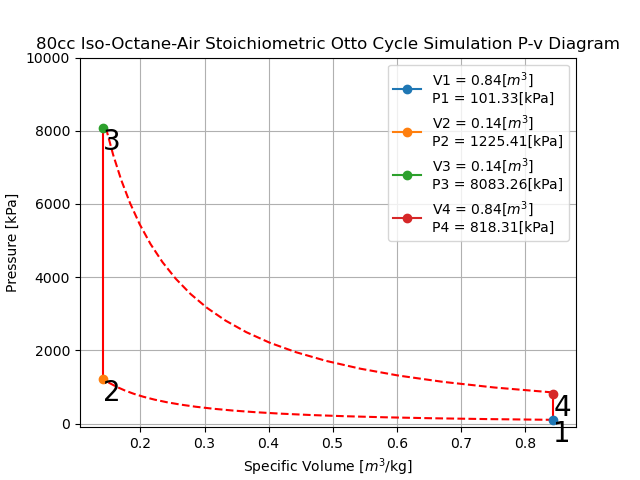
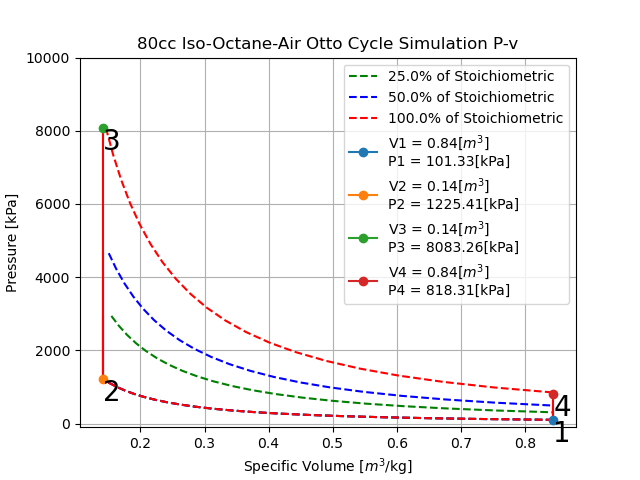
CREATED FUCNTIONS FOR STUFF :))

diff --git a/isooctane_analysis.py b/isooctane_analysis.py
@@ -37,24 +37,35 @@ n_O2 = 0.21*n
     #moles of oxygen present in air
 n_iso = n_O2/12.5
     #moles of iso-octane required for stoichiometric combustion
-kg_iso = n_iso*mw_iso/1000
+excess = 0.3
+    #excess value for iso_octane
+
+    
+def kilograms_iso(excess_percent):
     #kg of iso-octane reuired for stoichiometric combustion
+    moles_iso = n_iso
+    molecular_weight_iso = mw_iso
+    kg = moles_iso*molecular_weight_iso*excess_percent/1000
+    return kg
+    
 # %%
 ###################
 #      INTAKE     #
 ###################
 
-cv_air_1 = air.cv(T=t1, p=p1)
+def intake(t1, p1):
+    cv_air = air.cv(T=t1, p=p1)
     #volume specific heat at temperature t1
-cp_air_1 = air.cp(T=t1, p=p1)
+    cp_air = air.cp(T=t1, p=p1)
     #volume specific heat at temperature t1
-gamma_air_1 = cp_air_1/cv_air_1
+    gamma = cp_air/cv_air
     #finding gamma. Basicaly the same as assumed value
-
-s_air_1 = air.s(T=t1, p=p1)
+    s_air = air.s(T=t1, p=p1)
     #air entropy at state point 1
-h_air_1 = air.h(T=t1, p=p1)
+    h_air = air.h(T=t1, p=p1)
     #air enthlpy at state point 1
+    return cv_air, cp_air, gamma, s_air, h_air
+
 #%%
 ###################
 #   COMPRESSION   #
@@ -62,68 +73,75 @@ h_air_1 = air.h(T=t1, p=p1)
 
 gamma_avg = 1.3912
 
-p2 = p1 * r ** gamma_avg
-    #Finding stage 2 pressure through pressure ratio
-t2 = t1 * r**(gamma_avg-1)
-    #Finding stage 2 temp through adiabatic compression
+def compression(t1, p1):
+    p2 = p1 * r ** gamma_avg
+        #Finding stage 2 pressure through pressure ratio
+    t2 = t1 * r**(gamma_avg-1)
+        #Finding stage 2 temp through adiabatic compression
+    cv_air_2 = air.cv(T=t2, p=p2)
+        #volume specific heat at temperature t2
+    cp_air_2 = air.cp(T=t2, p=p2)
+        #volume specific heat at temperature t1
+    gamma_air_2 = cp_air_2/cv_air_2
+        #finding gamma. Basicaly the same as assumed value
 
-cv_air_2 = air.cv(T=t2, p=p2)
-    #volume specific heat at temperature t2
-cp_air_2 = air.cp(T=t2, p=p2)
-    #volume specific heat at temperature t1
-gamma_air_2 = cp_air_2/cv_air_2
-    #finding gamma. Basicaly the same as assumed value
+    s_air_2 = air.s(T=t2, p=p2)
+        #air entropy at state point 2
+    h_air_2 = air.h(T=t2, p=p2)
+        #H2 enthalpy at state point 2
+    
+    return cv_air_2, cp_air_2, gamma_air_2, s_air_2, h_air_2, p2, t2
+        #specific work required for compression
 
-s_air_2 = air.s(T=t2, p=p2)
-    #air entropy at state point 2
-h_air_2 = air.h(T=t2, p=p2)
-    #H2 enthalpy at state point 2
-
-wc = h_air_2 - h_air_1
-    #specific work required for compression
-
+#wc = h_air_2 - h_air_1
 #%%
 ###################
 #   COMBUSTION    #
 ###################
-cv_air_avg = 0.8735
-fuel_air = kg_iso / kg_air
-t3 = t2 + Q*kg_iso/(kg_air*cv_air_avg)
-p3 = p2*(t3/t2)
 
-cv_air_3 = air.cv(T=t3, p=p3)
-cp_air_3 = air.cp(T=t3, p=p3)
-h_air_3 = air.h(T=t3, p=p3)
-s_air_3 = air.s(T=t3, p=p3)
+def combustion(t2, p2, kg_iso, kg_air, Q):
+    cv_air_avg = 0.8735
+    t3 = t2 + Q*kg_iso/(kg_air*cv_air_avg)
+    p3 = p2*(t3/t2)
 
-gamma_air_3 = cp_air_3/cv_air_3
+    cv_air_3 = air.cv(T=t3, p=p3)
+    cp_air_3 = air.cp(T=t3, p=p3)
+    h_air_3 = air.h(T=t3, p=p3)
+    s_air_3 = air.s(T=t3, p=p3)
+
+    gamma_air_3 = cp_air_3/cv_air_3
+    return cv_air_3, cp_air_3, gamma_air_3, s_air_3, h_air_3, p3, t3
 #%%
 ###################
 #     EXHAUST     #
 ###################
+def exhaust(t3, p3, gamma_air_3):
+    p4 = p3*r**(-gamma_air_3)
+    t4 = t3*r**(1-gamma_air_3)
 
-p4 = p3*r**(-gamma_air_3)
-t4 = t3*r**(1-gamma_air_3)
-
-cv_air_4 = air.cv(T=t4, p=p4)
-cp_air_4 = air.cp(T=t4, p=p4)
-h_air_4 = air.h(T=t4, p=p4)
-s_air_4 = air.s(T=t4, p=p4)
-
-cv_avg = (cv_air_1+cv_air_2+cv_air_3+cv_air_4)/4
-gamma_air_4 = cp_air_4/cv_air_4
+    cv_air_4 = air.cv(T=t4, p=p4)
+    cp_air_4 = air.cp(T=t4, p=p4)
+    h_air_4 = air.h(T=t4, p=p4)
+    s_air_4 = air.s(T=t4, p=p4)
+    
+    gamma_air_4 = cp_air_4/cv_air_4
+    return cv_air_4, cp_air_4, gamma_air_4, s_air_4, h_air_4, p4, t4
 
 # %%
-W = cv_avg*( (t3-t2)-(t4-t1) )
 
-P_spec = W*rpm/60
-P = P_spec*(kg_air)
-print(f'kW = {P}')
+def power(t1, t2, t3, t4, cv_air_1, cv_air_2, cv_air_3, cv_air_4):
+    cv_avg = (cv_air_1+cv_air_2+cv_air_3+cv_air_4)/4
+    W = cv_avg*( (t3-t2)-(t4-t1) )
+
+    P_spec = W*rpm/60
+    P = P_spec*(kg_air)
+    print(f'kW = {P}')
+    return P
 #%%
 ###################
 #     VOLUME      #
 ###################
-
+'''
 l = 20
 t_12 = np.linspace(t1, t2, l)
 t_23 = np.linspace(t2, t3, l)
@@ -176,30 +194,76 @@ plt.legend()
 
 plt.xlabel('Volume [cc]')
 plt.ylabel('Pressure [kPa]')
-plt.title(f'80cc Iso-Octane-Air Stoichiometric Otto Cycle Simulation P-V Diagram')
-plt.savefig(f'Iso-octane_graphs/P-V_total.png')
+plt.title(f'80cc Iso-Octane-Air {np.round((excess-1)*100)}% excess Otto Cycle Simulation P-V')
+plt.savefig(f'Iso-octane_graphs/P-V_total_{np.round((excess-1)*100)}%_excess.png')
+'''
 # %%
 
 ###################
 #   SPECIFIC VOL  #
 ###################
 
-v12_sp = (v12_air)
-v23_sp = (v23_air)
-v34_sp = (v34_air)
-v41_sp = (v41_air)
+def SV(excess,t1, p1, points):
+    kg_iso = kilograms_iso(excess)
+    cv_air_1, cp_air_1, gamma_1, s_air_1, h_air_1 = intake(t1, p1)
+    cv_air_2, cp_air_2, gamma_2, s_air_2, h_air_2, p2, t2 = compression(t1, p1)
+    cv_air_3, cp_air_3, gamma_3, s_air_3, h_air_3, p3, t3 = combustion(t2, p2, kg_iso, kg_air, Q)
+    cv_air_4, cp_air_4, gamma_4, s_air_4, h_air_4, p4, t4 = exhaust(t3, p3, gamma_3)
+    P = power(t1, t2, t3, t4, cv_air_1, cv_air_2, cv_air_3, cv_air_4)
+    
+    l = points
+    
+    t_12 = np.linspace(t1, t2, l)
+    t_23 = np.linspace(t2, t3, l)
+    t_34 = np.linspace(t3, t4, l)
+    t_14 = np.linspace(t1, t4, l)
+    
+    v12_air = air.v(T=t_12, s=s_air_1)
+    v23_air = air.v(T=t2,   s=s_air_2)
+    v34_air = air.v(T=t_34, s=s_air_4)
+    v41_air = air.v(T=t4,   s=s_air_4)
+    
+    v12_sp = (v12_air)
+    v23_sp = (v23_air)
+    v34_sp = (v34_air)
+    v41_sp = (v41_air)
 
-v1_sp = (v1_air)
-v2_sp = (v2_air)
-v3_sp = (v3_air)
-v4_sp = (v4_air)
+    v1_air = air.v(T=t1, s=s_air_1)
+    v2_air = air.v(T=t2, s=s_air_2)
+    v3_air = air.v(T=t3, s=s_air_3)
+    v4_air = air.v(T=t4, s=s_air_4)
+
+    v1_sp = (v1_air)
+    v2_sp = (v2_air)
+    v3_sp = (v3_air)
+    v4_sp = (v4_air)
+    
+    p12 = air.p(T=t_12, s=s_air_1)/1000
+    p23 = air.p(T=t_23, v=v23_air)/1000
+    p34 = air.p(T=t_34, s=s_air_3)/1000
+    p41 = air.p(T=t_14, v=v41_air)/1000
+    
+    return v12_sp, v23_sp, v34_sp, v41_sp, v1_sp, v2_sp, v3_sp, v4_sp, \
+        p1, p2, p3, p4, p12, p23, p34, p41, t1, t2, t3, t4, t_12, t_23, t_34, t_14
+
+excesses = np.array([0.25, 0.5, 1])
 
 fig2 = plt.figure()
+c = 0
+for e in excesses:
+    if c == 0:
+        color = 'g'
+    elif c==1:
+        color = 'b'
+    else:
+        color = 'r'
+    v12_sp, v23_sp, v34_sp, v41_sp, v1_sp, v2_sp, v3_sp, v4_sp, p1, p2, p3, p4, p12, p23, p34, p41, t1, t2, t3, t4, t_12, t_23, t_34, t_14 = SV(e, t1, p1, 20)
+    plt.plot(v12_sp, p12,f'{color}--',linewidth=1.5, label=f'{e*100}% of Stoichiometric')
+    plt.plot([v23_sp,v23_sp],[p2/1000,p3/1000],f'{color}',linewidth=1.5)
+    plt.plot(v34_sp, p34,f'{color}--',linewidth=1.5)
+    plt.plot([v41_sp[0],v41_sp[0]],[p4[0]/1000,p1/1000],f'{color}',linewidth=1.5)
+    c+=1
 
-plt.plot(v12_sp, p12,'r--',linewidth=1.5)
-plt.plot([v23_sp,v23_sp],[p2/1000,p3/1000],'r',linewidth=1.5)
-plt.plot(v34_sp, p34,'r--',linewidth=1.5)
-plt.plot([v41_sp[0],v41_sp[0]],[p4[0]/1000,p1/1000],'r',linewidth=1.5)
 
 plt.annotate('1',xy=(v1_sp,p1/1000),horizontalalignment='left', verticalalignment='top', fontsize=20)         
 plt.annotate('2',xy=(v2_sp,p2/1000),horizontalalignment='left', verticalalignment='top', fontsize=20)         
@@ -216,7 +280,7 @@ plt.legend()
 
 plt.xlabel(r'Specific Volume [$m^3$/kg]')
 plt.ylabel('Pressure [kPa]')
-plt.title(f'80cc Iso-Octane-Air Stoichiometric Otto Cycle Simulation P-v Diagram')
+plt.title(f'80cc Iso-Octane-Air Otto Cycle Simulation P-v')
 plt.ylim(-100,10000)
 plt.savefig(f'Iso-octane_graphs/P-V_specific.png')
 # %%
@@ -256,14 +320,14 @@ plt.annotate('4',xy=(t4,p4/1000),horizontalalignment='left', verticalalignment='
 
 plt.xlabel('Temperature [K]')
 plt.ylabel('Pressure [kPa]')
-plt.title(f'80cc Iso-Octane-Air Stoichiometric Otto Cycle Simulation P-T Diagram')
+plt.title(f'80cc Iso-Octane-Air {np.round((excess-1)*100)}% excess Otto Cycle Simulation P-T')
 
 plt.grid()
 plt.legend()
 plt.xlim(0,5000)
 plt.ylim(0,10000)
 
-plt.savefig(f'Iso-octane_graphs/P-T.png')
+plt.savefig(f'Iso-octane_graphs/P-T_{np.round((excess-1)*100)}%_excess.png')
 # %%
 ###################
 #     ENTROPY     #
@@ -303,13 +367,13 @@ plt.annotate('4',xy=(s_air_4, t4),horizontalalignment='left', verticalalignment=
 
 plt.ylabel('Temperature [K]')
 plt.xlabel('Specific Entropy [kJ/K kg]')
-plt.title(f'80cc Iso-Octane-Air Stoichiometric Otto Cycle Simulation P-T Diagram')
+plt.title(f'80cc Iso-Octane-Air {np.round((excess-1)*100)}% excess Otto Cycle Simulation P-T')
 plt.grid()
 plt.legend()
 
 plt.ylim(0,5000)
 
-plt.savefig(f'Iso-octane_graphs/T-S.png')
+plt.savefig(f'Iso-octane_graphs/T-S_{np.round((excess-1)*100)}%_excess.png')
 # %%
 ###################
 #     RUNTIME     #
@@ -329,11 +393,11 @@ runtime = (m_tot_iso/m_dot_iso)/60
 plt.plot(duty_cycle, runtime)
 plt.xlabel('Duty Cycle')
 plt.ylabel('Runtime [min]')
-plt.title(f'Runtime, Stoichiometric Iso-Octane Air')
+plt.title(f'Runtime, {np.round((excess-1)*100)}% excess Iso-Octane Air')
 plt.grid()
 plt.ylim(10,200)
 plt.xlim(0.1,1)
-plt.savefig(f'Iso-octane_graphs/runtime_duty_cycle.png')
+plt.savefig(f'Iso-octane_graphs/runtime_duty_cycle_{np.round((excess-1)*100)}%_excess.png')
 # %%
 fig6 = plt.figure
 avg_rpm = np.linspace(1000,6000,100)
@@ -345,9 +409,9 @@ runtime = (m_tot_iso/m_dot_iso_a)/60
 plt.plot(avg_rpm, runtime)
 plt.xlabel('Average RPM')
 plt.ylabel('Runtime [min]')
-plt.title(f'Runtime, Stoichiometric Iso-Octane Air at Given RPM')
+plt.title(f'Runtime, {np.round((excess-1)*100)}% excess Iso-Octane Air at Given RPM')
 plt.grid()
 plt.ylim(10,200)
 plt.xlim(1000,6000)
-plt.savefig(f'Iso-octane_graphs/runtime_rpm.png')
+plt.savefig(f'Iso-octane_graphs/runtime_rpm_{np.round((excess-1)*100)}%_excess.png')
 # %%

diff --git a/hydrogen_air.py b/hydrogen_air.py
@@ -33,7 +33,7 @@ rho_air = H2.d(T=t1, p=p1)
 # %%
 
 #quick calculation to get molar fractions
-excess = 1.
+excess = 0.3
     #percent excess
 air_part = 1
 hydrogen = 0.21*2 * excess
@@ -143,7 +143,7 @@ gamma_avg_12 = (gamma_1 + gamma_2)/2
 cv_air_avg = 0.8735
 cv_H2_avg = 11.5
 #fuel_air = kg_H2 / kg_air
-t3 = t2 + Q*(kg_H2/excess)/(kg_air*cv_air_avg + (kg_H2*excess-kg_H2)*cv_H2_avg)
+t3 = t2 + Q*(kg_H2)/(kg_air*cv_air_avg)
 p3 = p2*(t3/t2)
 
 cv_air_3 = air.cv(T=t3, p=p3)
@@ -269,7 +269,7 @@ plt.legend()
 
 plt.xlabel('Volume [cc]')
 plt.ylabel('Pressure [kPa]')
-plt.title(f'80cc Hydrogen-Air {np.round((excess-1)*100)}% excess Otto Cycle Simulation P-V Diagram')
+plt.title(f'80cc Hydrogen-Air {np.round((excess-1)*100)}% excess Otto Cycle Simulation P-V')
 plt.savefig(f'Hydrogen-Air_graphs/P-V_{np.round((excess-1)*100)}_excess.png')
 #%%
 ###################
@@ -308,7 +308,7 @@ plt.legend()
 
 plt.xlabel(r'Specific Volume [$m^3$/kg]')
 plt.ylabel('Pressure [kPa]')
-plt.title(f'80cc Hydrogen-Air {np.round((excess-1)*100)}% excess Otto Cycle Simulation P-v Diagram')
+plt.title(f'80cc Hydrogen-Air {np.round((excess-1)*100)}% excess Otto Cycle Simulation P-v')
 plt.ylim(-100,10000)
 plt.savefig(f'Hydrogen-Air_graphs/P-V_specific_{np.round((excess-1)*100)}_excess.png')
 #%%
@@ -348,7 +348,7 @@ plt.annotate('4',xy=(t4,p4/1000),horizontalalignment='left', verticalalignment='
 
 plt.xlabel('Temperature [K]')
 plt.ylabel('Pressure [kPa]')
-plt.title(f'80cc Hydrogen-Air {np.round((excess-1)*100)}% excess Otto Cycle Simulation P-T Diagram')
+plt.title(f'80cc Hydrogen-Air {np.round((excess-1)*100)}% excess Otto Cycle Simulation P-T')
 
 plt.grid()
 plt.legend()
@@ -396,7 +396,7 @@ plt.annotate('4',xy=(s_4, t4),horizontalalignment='left', verticalalignment='top
 
 plt.ylabel('Temperature [K]')
 plt.xlabel('Specific Entropy [kJ/K kg]')
-plt.title(f'80cc Hydrogen-Air {np.round((excess-1)*100)}% excess Otto Cycle Simulation T-S Diagram')
+plt.title(f'80cc Hydrogen-Air {np.round((excess-1)*100)}% excess Otto Cycle Simulation T-S')
 plt.grid()
 plt.legend()
 

diff --git a/README.md b/README.md
@@ -47,5 +47,3 @@ We assume Hydrogen makes up a significant portion of the volume of the intake ga
 ### Combustion Takes Places With Stoichiometric Ratios
 
 We assume combusiton happens stoichiometrically. This is not how engines operate in real life. Many gasoline-powered engines purposefully use a fuel-rich mixture. This allows for some evaporative cooling of the engine, as the uncombusted fuel takes some of the heat generated from combustion away with it, keeping the engine cooler. Here, we are just analysing the performance of different fuels. Infromed by these findings, one may then begin to tune fuel ratios for favorable thermal and pwoer properties.
-
-Test
